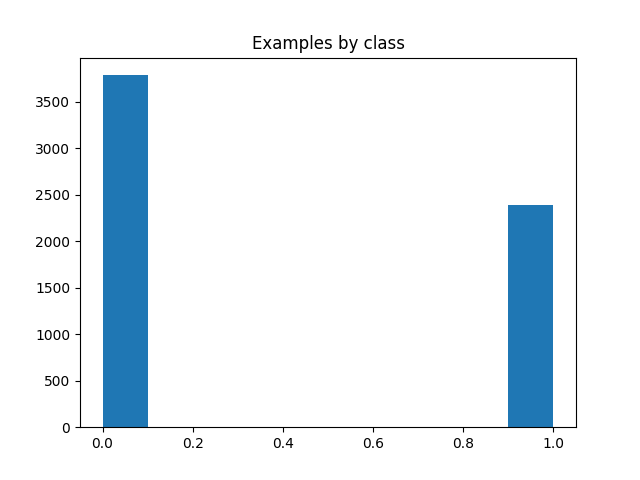
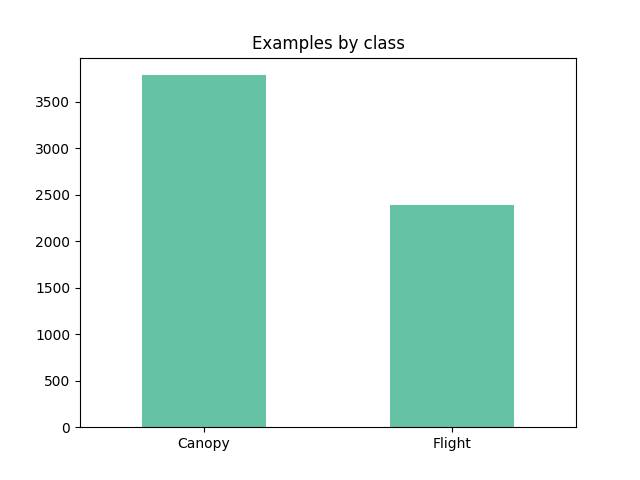
improve value distribution plot

diff --git a/build_model.py b/build_model.py
@@ -102,7 +102,12 @@ class ModelBuilder:
         print('--- Saving value distribution plot')
         plt.figure()
         plt.title('Examples by class')
-        plt.hist(self.df['is_flight'])
+        map_dict = {0: 'Canopy', 1: 'Flight'}
+        series = self.df['is_flight'].map(map_dict)
+
+        values = series.value_counts()
+        values.plot(kind='bar', colormap='Set2')
+        plt.xticks(rotation=0)
         plt.savefig('tracksegmenter/static/values_plot.png')
 
 
